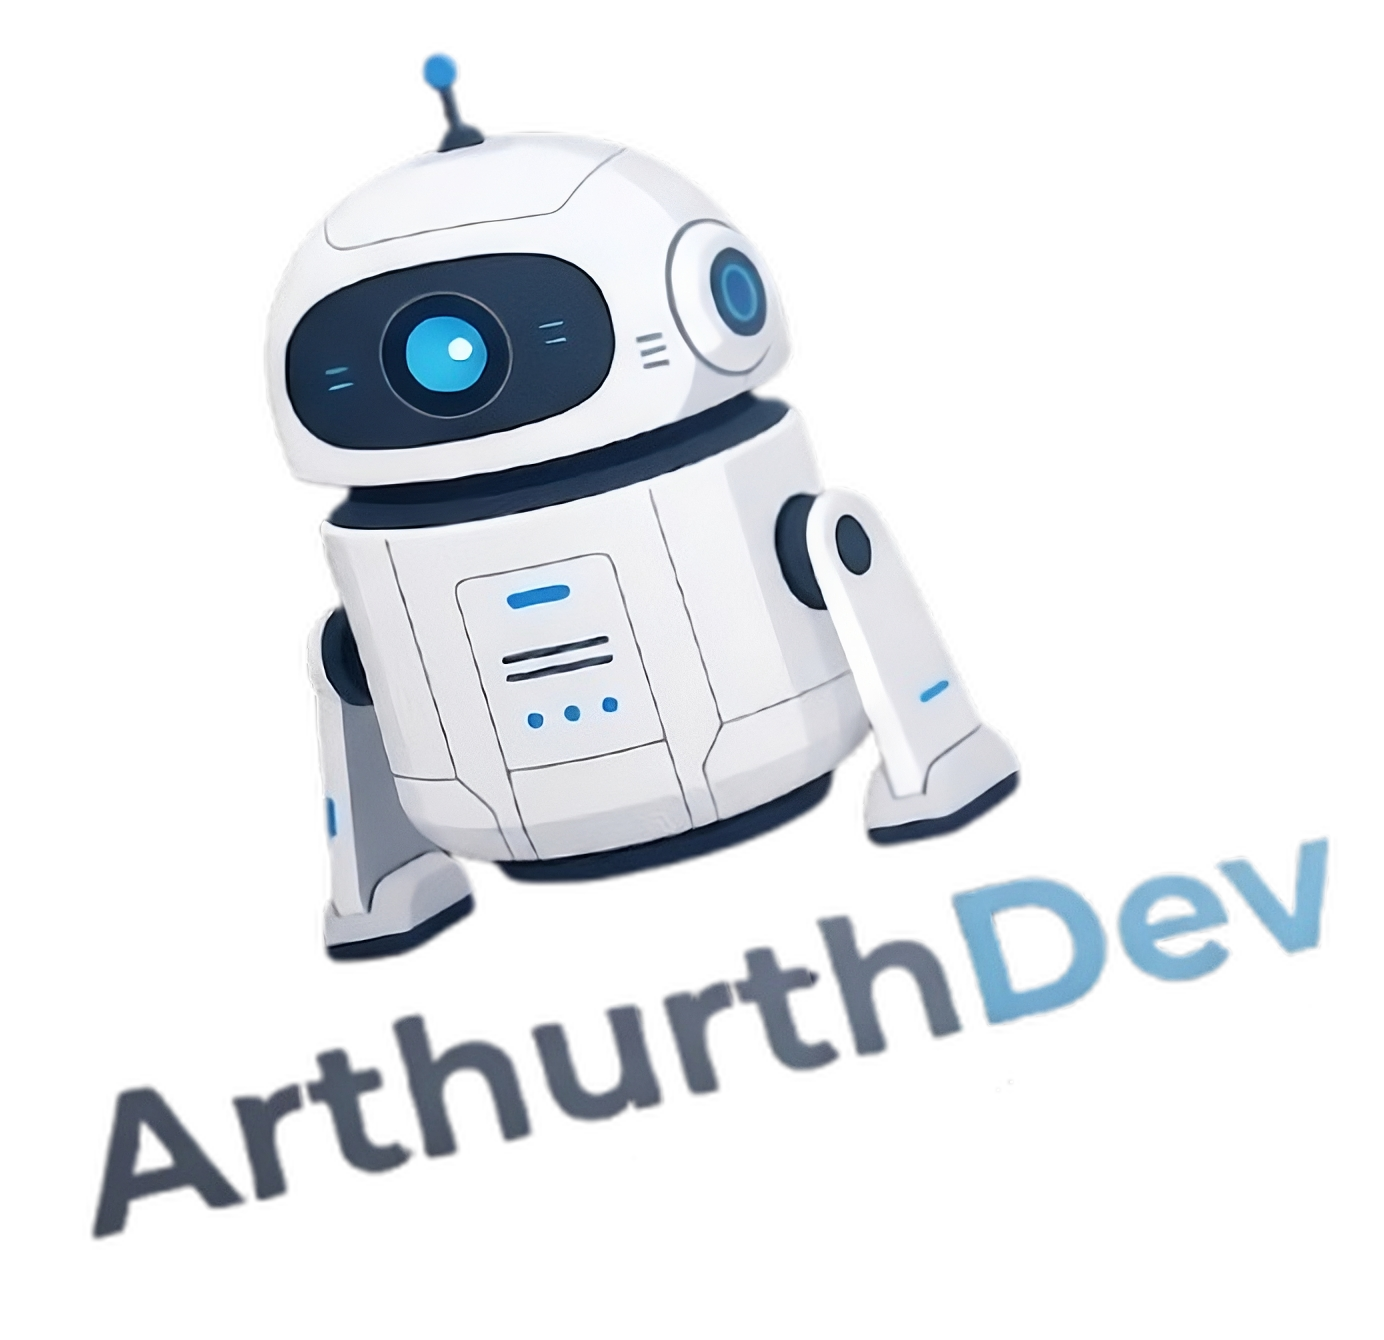
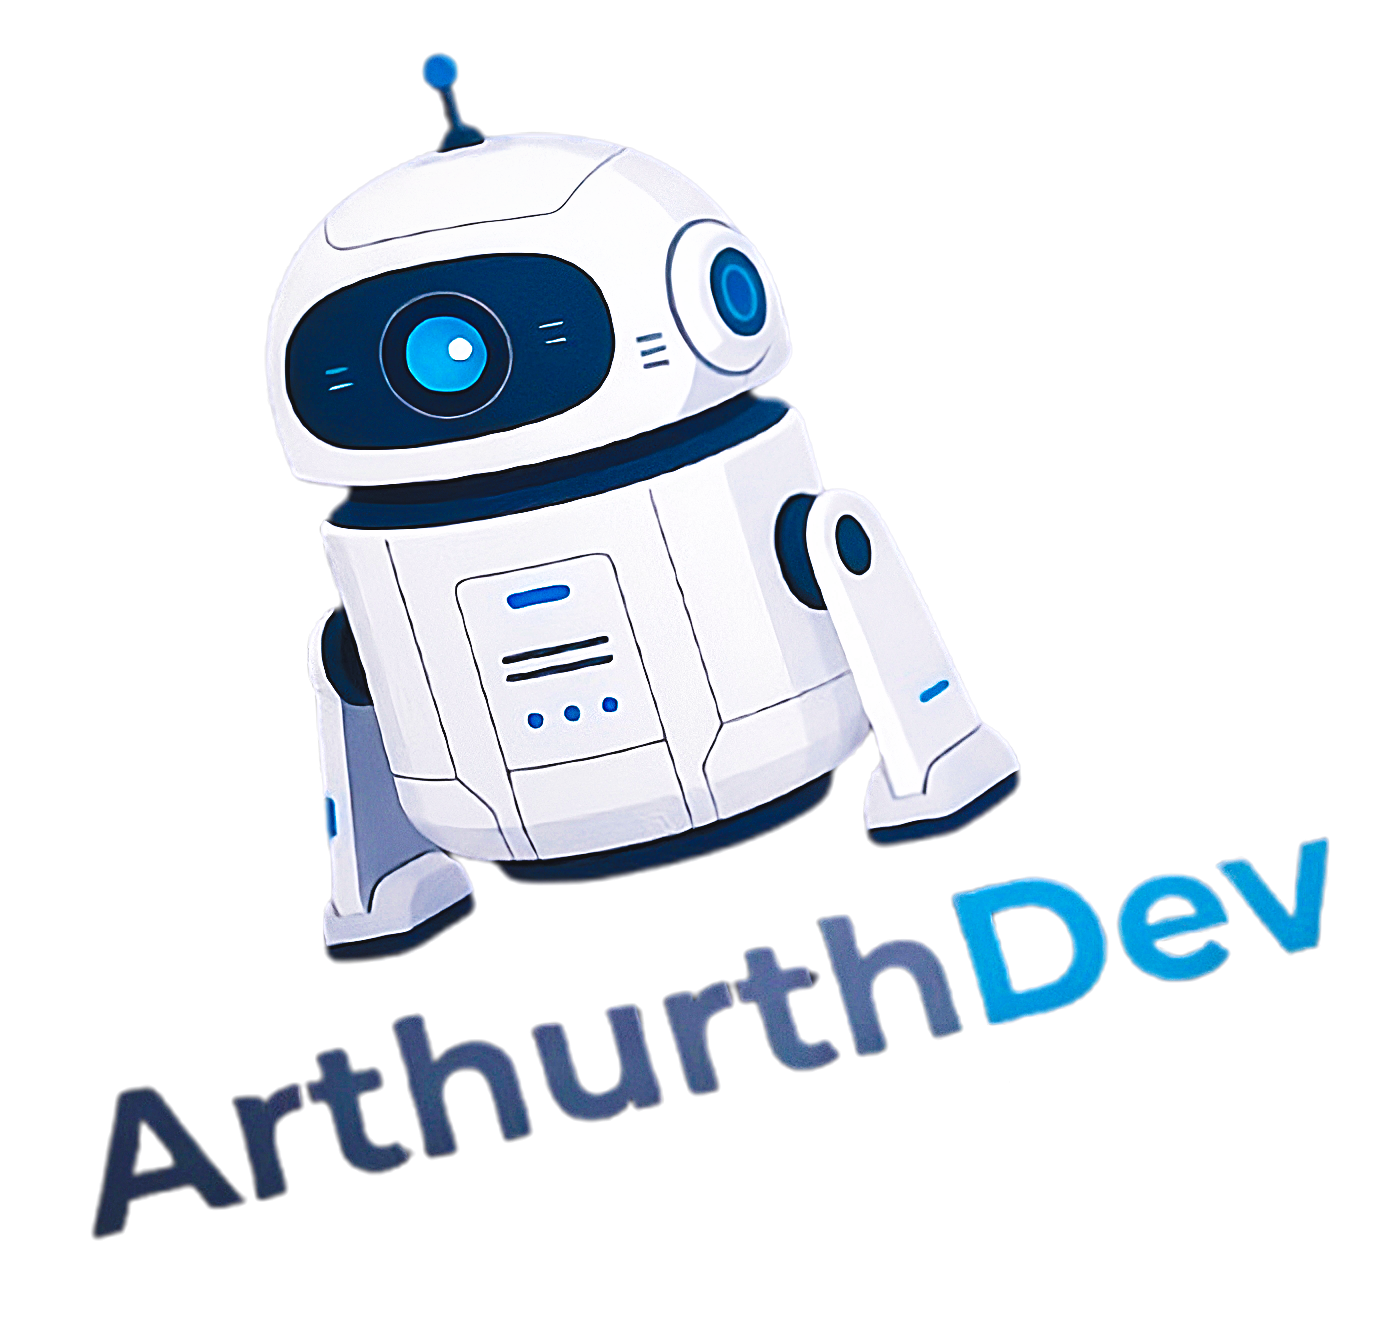
correo copiado

diff --git a/src/components/ContactPanel.jsx b/src/components/ContactPanel.jsx
@@ -45,7 +45,6 @@ export default function ContactPanel() {
       setCopied(true);
       setTimeout(() => setCopied(false), 1000);
     });
-    window.open(`https://www.google.com/search?q=${encodeURIComponent(email)}`, "_blank");
   };
 
   return (
@@ -76,7 +75,7 @@ export default function ContactPanel() {
           </a>
         ))}
       </div>
-      {copied && <span className="copy-toast">Listo correo copiado</span>}
+      {copied && <span className="copy-toast">Correo copiado</span>}
 
       <div className="contact-cta">
         <p>Tambien puedes dejarme un comentario directo dentro del portafolio.</p>

diff --git a/src/components/SidebarInfo.jsx b/src/components/SidebarInfo.jsx
@@ -235,7 +235,6 @@ export default function SidebarInfo({
                 setCopied(true);
                 setTimeout(() => setCopied(false), 1000);
               });
-              window.open("https://www.google.com/search?q=juarezmonroyarturo574%40gmail.com", "_blank");
             }}
             aria-label="Copiar correo electrónico"
           >
@@ -288,7 +287,7 @@ export default function SidebarInfo({
             </button>
             <span className="laptop-golden-label">Servicios</span>
           </div>
-          {copied && <span className="copy-toast">Listo correo copiado</span>}
+          {copied && <span className="copy-toast">Correo copiado</span>}
         </div>
       </section>
 

diff --git a/src/App.css b/src/App.css
@@ -5433,7 +5433,7 @@ body.dark-mode .contact-card i {
   background: #1e293b;
   color: #f1f5f9;
   font-family: var(--font-primary);
-  font-size: 0.85rem;
+  font-size: 1.05rem;
   font-weight: 500;
   white-space: nowrap;
   box-shadow: 0 8px 24px rgba(0, 0, 0, 0.25);